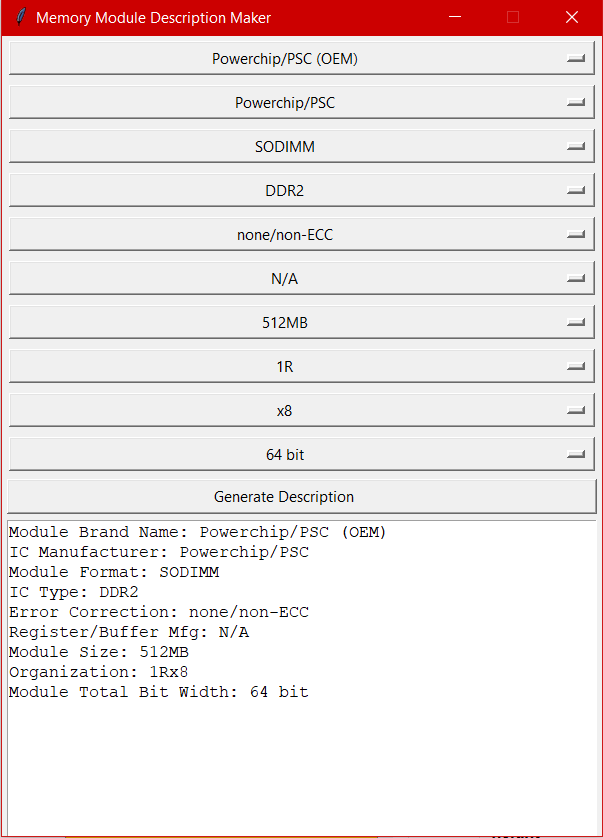
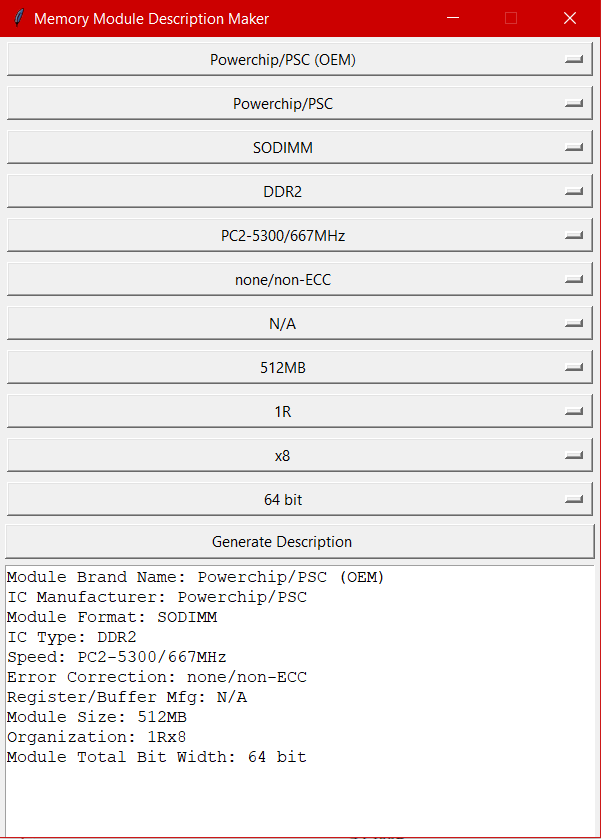
Add speed option
Forgot about module speeds, updated app and image accordingly.

diff --git a/ddr2zone_description_maker.py b/ddr2zone_description_maker.py
@@ -82,6 +82,7 @@ def generateDescription():
     output.insert(tk.END, "IC Manufacturer: " + icMfgVar.get() + "\n")
     output.insert(tk.END, "Module Format: " + moduleFormatVar.get() + "\n")
     output.insert(tk.END, "IC Type: " + icTypeVar.get() + "\n")
+    output.insert(tk.END, "Speed: " + allSpeedsVar.get() + "\n")
     output.insert(tk.END, "Error Correction: " + errorCorrectionVar.get() + "\n")
     output.insert(tk.END, "Register/Buffer Mfg: " + registerBufferMfgVar.get() + "\n")
     output.insert(tk.END, "Module Size: " + moduleSizeVar.get() + "\n")
@@ -100,27 +101,30 @@ moduleFormatVar.set("Module Format")
 icTypeDropdown = tk.OptionMenu(root, icTypeVar, *icType)
 icTypeDropdown.grid(row=4, column=0, sticky='nesw', padx=5, pady=2.5)
 icTypeVar.set("IC Type")
+allSpeedsDropdown = tk.OptionMenu(root, allSpeedsVar, *allSpeeds)
+allSpeedsDropdown.grid(row=5, column=0, sticky='nesw', padx=5, pady=2.5)
+allSpeedsVar.set("Speed")
 errorCorrectionDropdown = tk.OptionMenu(root, errorCorrectionVar, *errorCorrection)
-errorCorrectionDropdown.grid(row=5, column=0, sticky='nesw', padx=5, pady=2.5)
+errorCorrectionDropdown.grid(row=6, column=0, sticky='nesw', padx=5, pady=2.5)
 errorCorrectionVar.set("Error Correction")
 registerBufferMfgDropdown = tk.OptionMenu(root, registerBufferMfgVar, *registerBufferMfg)
-registerBufferMfgDropdown.grid(row=6, column=0, sticky='nesw', padx=5, pady=2.5)
+registerBufferMfgDropdown.grid(row=7, column=0, sticky='nesw', padx=5, pady=2.5)
 registerBufferMfgVar.set("Buffer IC Mfg")
 moduleSizeDropdown = tk.OptionMenu(root, moduleSizeVar, *moduleSize)
-moduleSizeDropdown.grid(row=7, sticky='nesw', padx=5, pady=2.5)
+moduleSizeDropdown.grid(row=8, sticky='nesw', padx=5, pady=2.5)
 moduleSizeVar.set("Module Size")
 moduleRanksDropdown = tk.OptionMenu(root, moduleRanksVar, *moduleRanks)
-moduleRanksDropdown.grid(row=8, sticky='nesw', padx=5, pady=2.5)
+moduleRanksDropdown.grid(row=9, sticky='nesw', padx=5, pady=2.5)
 moduleRanksVar.set("Amount of Ranks")
 deviceBitWidthDropdown = tk.OptionMenu(root, deviceBitWidthVar, *deviceBitWidth)
-deviceBitWidthDropdown.grid(row=9, sticky='nesw', padx=5, pady=2.5)
+deviceBitWidthDropdown.grid(row=10, sticky='nesw', padx=5, pady=2.5)
 deviceBitWidthVar.set("Device Bit Width")
 moduleBitWidthDropdown = tk.OptionMenu(root, moduleBitWidthVar, *moduleBitWidth)
-moduleBitWidthDropdown.grid(row=10, sticky='nesw', padx=5, pady=2.5)
+moduleBitWidthDropdown.grid(row=11, sticky='nesw', padx=5, pady=2.5)
 moduleBitWidthVar.set("Module Total Bit Width")
 generateButton = tk.Button(root, text = "Generate Description         ", command = generateDescription)
-generateButton.grid(row=11, sticky='nesw', padx=5, pady=2.5)
+generateButton.grid(row=12, sticky='nesw', padx=5, pady=2.5)
 output = Text(root)
-output.grid(row=12, sticky='nesw', padx=5, pady=2.5)
+output.grid(row=13, sticky='nesw', padx=5, pady=2.5)
 
 root.mainloop()
